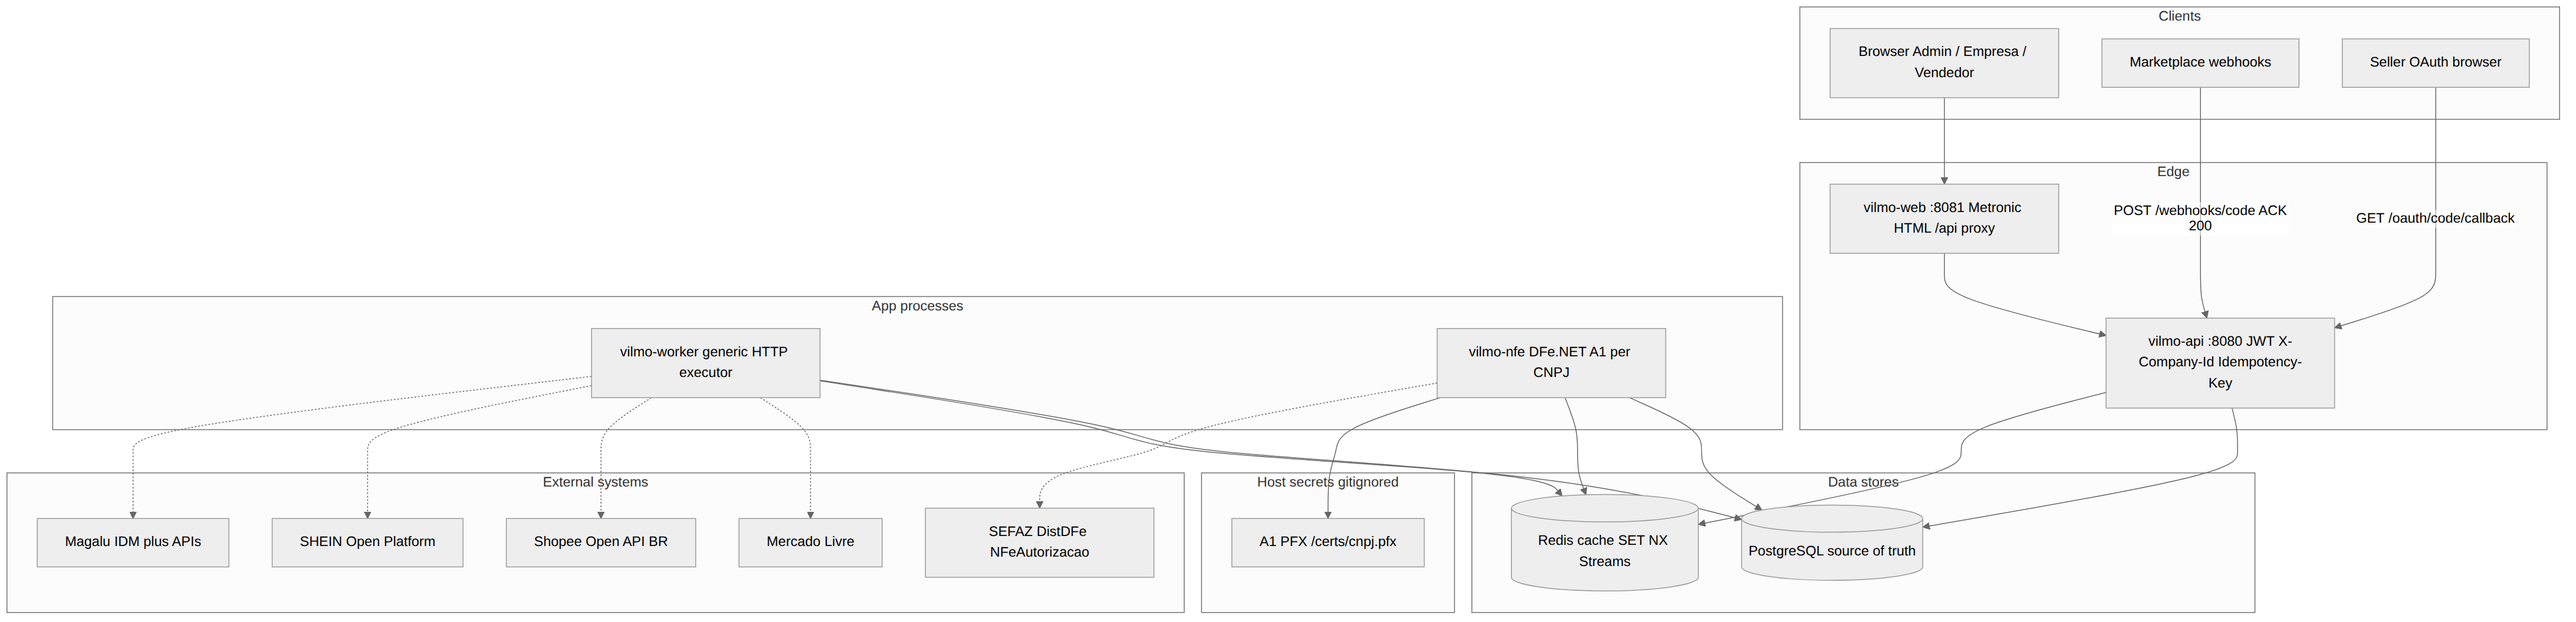
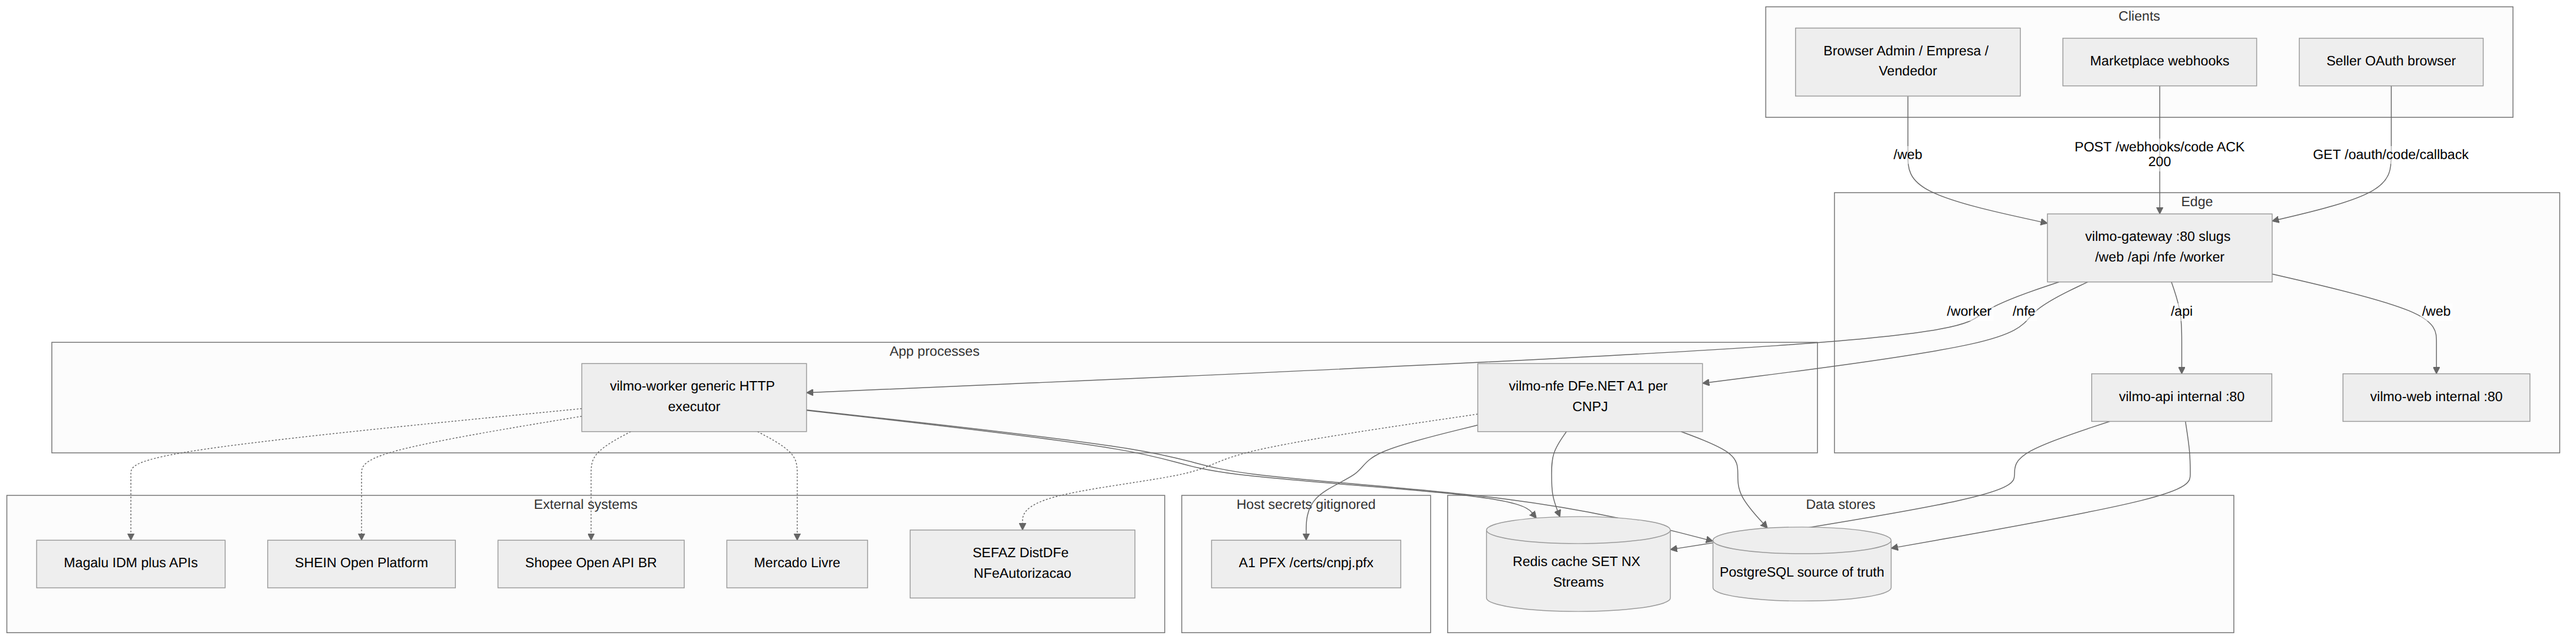
feat: add nginx gateway with service slugs and unpublished backends
Expose only port 80. Route /web /api /nfe /worker on the Docker network,
and keep marketplace /webhooks and /oauth on vilmo-api.

diff --git a/MD/PLAN.md b/MD/PLAN.md
@@ -1,6 +1,6 @@
-# Plan — Marketplace API + NF-e Inventory (no implementation in this revision)
+# Plan — Marketplace API + NF-e Inventory
 
-This is the build plan only. No application code, Docker images, or certificates are created until a later task explicitly asks to implement.
+The nginx gateway Compose stack in [`deploy/docker-compose.yml`](../deploy/docker-compose.yml) is implemented (echo stubs behind slugs). Application code, .NET images, and certificates are not created until a later task explicitly asks to implement them.
 
 Referenced architecture: [MarketPlaceEngine.MD](./MarketPlaceEngine.MD) — **Opção A (in-house)** + **idempotency**. Service map, data model, Redis resources, and sequence diagrams: [ARCHITECTURE.md](./ARCHITECTURE.md). Default UI: [UI.md](./UI.md) (Metronic 9.5.0 HTML). CNPJ seller + developer apps: [HowToCreateCnpjMarketplaceAccounts.md](./HowToCreateCnpjMarketplaceAccounts.md). Depth on login roles, sales sync, outbound NF-e, and Correios labels: [USER_STORIES.md](./USER_STORIES.md). First tenant: [FirstCompany.md](./FirstCompany.md).
 
@@ -33,10 +33,11 @@ KISS: four HTTP clients plus one fiscal SOAP client do not justify eight deploya
 
 | Deployable | Why it exists |
 | --- | --- |
-| `vilmo-api` | Public HTTP: commands, OAuth callbacks, webhook ACK. Must answer fast. |
-| `vilmo-web` | Metronic HTML UI. Proxies `/api` to `vilmo-api`. |
-| `vilmo-worker` | Slow marketplace I/O, retries, stock fan-out. |
-| `vilmo-nfe` | DFe.NET: DistDFe ingest **and** `NFeAutorizacao` emit, **per-company** A1, SEFAZ rate limits. Isolated so a SEFAZ outage does not take the API down. |
+| `vilmo-gateway` | Only public HTTP (`:80`). Path slugs `/web` `/api` `/nfe` `/worker`. |
+| `vilmo-api` | Public HTTP via gateway `/api`: commands, OAuth callbacks, webhook ACK. Must answer fast. |
+| `vilmo-web` | Metronic HTML UI at `/web`. Browser calls `/api` on the same origin. |
+| `vilmo-worker` | Slow marketplace I/O, retries, stock fan-out. Internal + slug `/worker`. |
+| `vilmo-nfe` | DFe.NET: DistDFe ingest **and** `NFeAutorizacao` emit, **per-company** A1, SEFAZ rate limits. Isolated so a SEFAZ outage does not take the API down. Slug `/nfe`. |
 | `postgres` | Source of truth. |
 | `redis` | Idempotency keys, marketplace-config cache, **vendor-subaccount cache**, **Redis Streams**. |
 
@@ -411,7 +412,11 @@ tests/
   *.Unit / *.Contract
 deploy/
   docker-compose.yml
-  docker-compose.override.yml
+  gateway/Dockerfile
+  gateway/nginx.conf
+  stubs/Dockerfile
+  stubs/echo.conf
+  gateway-smoke.sh
   api.Dockerfile
   worker.Dockerfile
   nfe.Dockerfile
@@ -424,15 +429,29 @@ Clean architecture per bounded context. Marketplace projects reference Contracts
 
 ## 6. Docker Compose (target)
 
+Compose file: `deploy/docker-compose.yml`. **Only `vilmo-gateway` publishes a host port** (`80`, override with `GATEWAY_PORT`). Postgres, Redis, and app HTTP ports stay on the `vilmo-internal` network.
+
 ```
 services:
-  postgres:     # catalog, inventory, sales, sale attributes, company config, users_detail, vendor subaccounts
-  redis:        # streams + idempotency + marketplace-config cache
-  vilmo-api:    # :8080
-  vilmo-web:    # :8081 Metronic HTML; /api → vilmo-api
-  vilmo-worker:
-  vilmo-nfe:    # certs: /certs/{cnpj}.pfx (read-only, one file per company)
+  vilmo-gateway:  # host :80 — nginx slugs /web /api /nfe /worker
+  postgres:       # internal 5432
+  redis:          # internal 6379
+  vilmo-api:      # internal 80 — public slug /api
+  vilmo-web:      # internal 80 — public slug /web
+  vilmo-worker:   # internal 80 — public slug /worker
+  vilmo-nfe:      # internal 80 — public slug /nfe; certs /certs/{cnpj}.pfx
 ```
+
+| Public path | Upstream |
+| --- | --- |
+| `/web/` | `vilmo-web` |
+| `/api/` | `vilmo-api` (slug stripped, so `/api/auth/login` → `/auth/login`) |
+| `/nfe/` | `vilmo-nfe` |
+| `/worker/` | `vilmo-worker` |
+| `/webhooks/{code}` | `vilmo-api` (marketplace ACK, no extra slug) |
+| `/oauth/{code}/callback` | `vilmo-api` |
+
+HTTP app images are echo stubs until the .NET Dockerfiles exist. Gateway config: `deploy/gateway/nginx.conf`.
 
 API env: connection strings, public base URL for OAuth/webhooks, bootstrap super-user password. Per-company marketplace credentials are **table rows**, not env.
 

diff --git a/MD/ARCHITECTURE.md b/MD/ARCHITECTURE.md
@@ -34,8 +34,9 @@ flowchart TB
   end
 
   subgraph edge ["Edge"]
-    web["vilmo-web :8081 Metronic HTML /api proxy"]
-    api["vilmo-api :8080 JWT X-Company-Id Idempotency-Key"]
+    gw["vilmo-gateway :80 slugs /web /api /nfe /worker"]
+    web["vilmo-web internal :80"]
+    api["vilmo-api internal :80"]
   end
 
   subgraph apps ["App processes"]
@@ -60,10 +61,13 @@ flowchart TB
     sefaz["SEFAZ DistDFe NFeAutorizacao"]
   end
 
-  browser --> web
-  web --> api
-  mpHook -->|"POST /webhooks/code ACK 200"| api
-  oauthUser -->|"GET /oauth/code/callback"| api
+  browser -->|"/web"| gw
+  gw -->|"/web"| web
+  gw -->|"/api"| api
+  gw -->|"/nfe"| nfe
+  gw -->|"/worker"| worker
+  mpHook -->|"POST /webhooks/code ACK 200"| gw
+  oauthUser -->|"GET /oauth/code/callback"| gw
 
   api --> pg
   api --> redis
@@ -82,14 +86,17 @@ flowchart TB
 
 ### Deployables
 
-| Service | Port | Responsibility | Must not |
-| --- | --- | --- | --- |
-| `vilmo-web` | 8081 | Metronic HTML. Proxies `/api` to `vilmo-api`. | Store marketplace secrets in the browser |
-| `vilmo-api` | 8080 | Auth, CRUD, OAuth callback, webhook **ACK only** | Call marketplace GET inside the webhook thread (ML 500 ms) |
-| `vilmo-worker` | — | FetchOrder, publish listing/stock, UploadInvoice, FetchShipmentLabel, token refresh | Own fiscal SOAP |
-| `vilmo-nfe` | — | DistDFe ingest, `NFeAutorizacao` emit, XML parse, CFOP movements | Use another company's A1 |
-| `postgres` | 5432 | Companies, users, catalog, inventory, sales, bindings, certificates metadata | — |
-| `redis` | 6379 | Idempotency, definition/config/vendor cache, Streams | Source of truth for money/stock |
+| Service | Host port | Internal | Responsibility | Must not |
+| --- | --- | --- | --- | --- |
+| `vilmo-gateway` | **80** (only public) | 80 | Nginx. Path slugs to HTTP services. | Publish 8080/8081/5432/6379 |
+| `vilmo-web` | none | 80 | Metronic HTML at slug `/web` | Store marketplace secrets in the browser |
+| `vilmo-api` | none | 80 | Auth, CRUD, OAuth, webhook **ACK only**. Slug `/api` | Call marketplace GET inside the webhook thread (ML 500 ms) |
+| `vilmo-worker` | none | 80 | FetchOrder, publish, UploadInvoice, token refresh. Slug `/worker` | Own fiscal SOAP; listen on the host |
+| `vilmo-nfe` | none | 80 | DistDFe ingest, `NFeAutorizacao`. Slug `/nfe` | Use another company's A1; listen on the host |
+| `postgres` | none | 5432 | Companies, users, catalog, inventory, sales, bindings, certificates metadata | — |
+| `redis` | none | 6379 | Idempotency, definition/config/vendor cache, Streams | Source of truth for money/stock |
+
+Public slugs (see `deploy/docker-compose.yml`): `/web`, `/api`, `/nfe`, `/worker`. Marketplace callbacks stay at the root: `/webhooks/{code}`, `/oauth/{code}/callback` → `vilmo-api`. `/` redirects to `/web/`. Compose today uses HTTP echo stubs until the .NET images exist.
 
 ### Redis resources
 
@@ -318,8 +325,8 @@ sequenceDiagram
 
 ```
 Browser
-  -> vilmo-web
-  -> vilmo-api
+  -> vilmo-gateway :80  (/web /api /nfe /worker)
+  -> vilmo-web or vilmo-api (Docker network only)
        JWT + X-Company-Id + Idempotency-Key
        Redis SET NX
        Postgres write

diff --git a/MD/UI.md b/MD/UI.md
@@ -87,12 +87,14 @@ Sale detail buttons follow [USER_STORIES.md](./USER_STORIES.md) US-06 and US-07.
 
 ## Docker
 
+`vilmo-gateway` (nginx) is the only published port (`:80`). Browser URLs:
+
 ```
-vilmo-web:   # Metronic HTML UI, e.g. :8081
-vilmo-api:   # already planned
+/web     → vilmo-web   (Metronic HTML)
+/api     → vilmo-api   (REST; slug stripped)
 ```
 
-Nginx or YARP in `vilmo-web` (or a gateway) serves `/` from Metronic and proxies `/api` to `vilmo-api`.
+Do not publish `vilmo-web` or `vilmo-api` on 8081/8080. Page JS calls `/api/...` on the same public origin.
 
 ## What not to do
 
